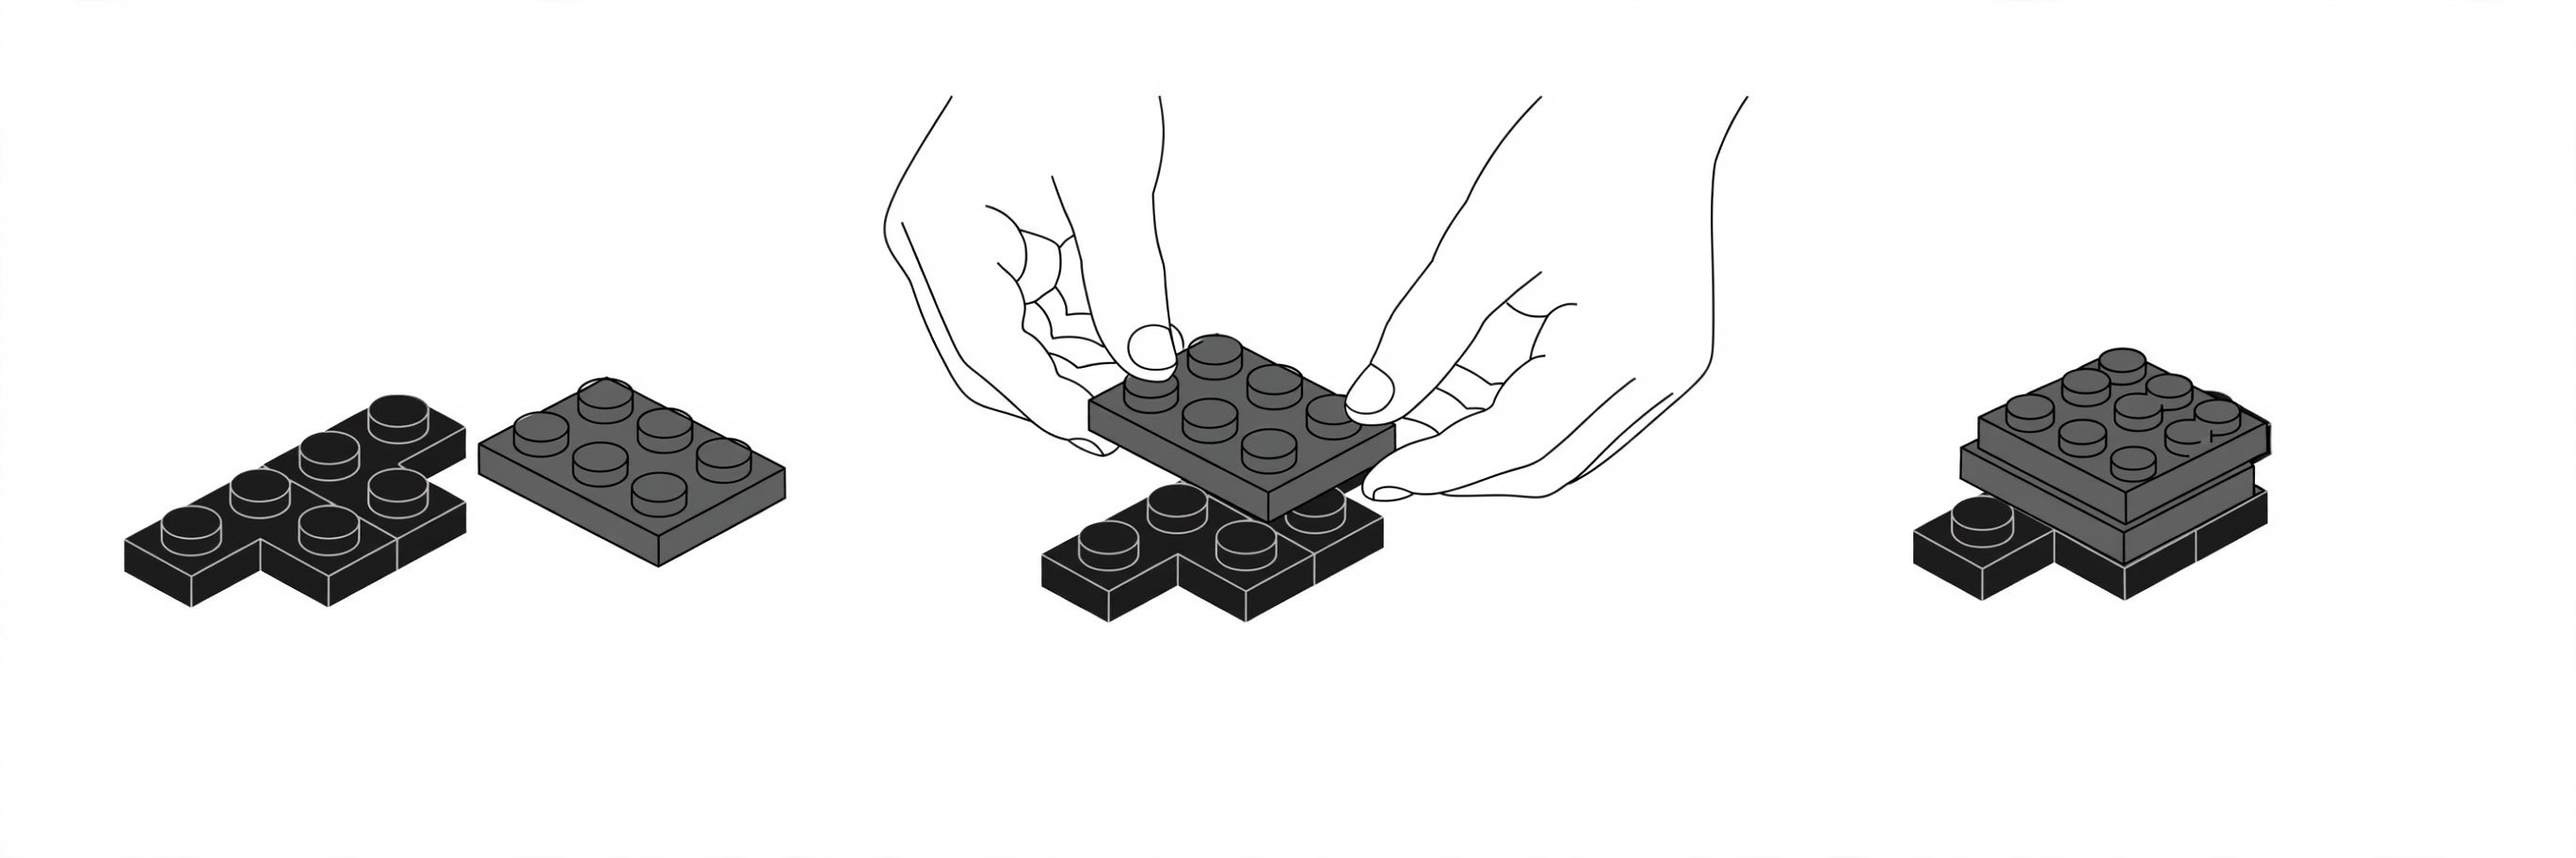
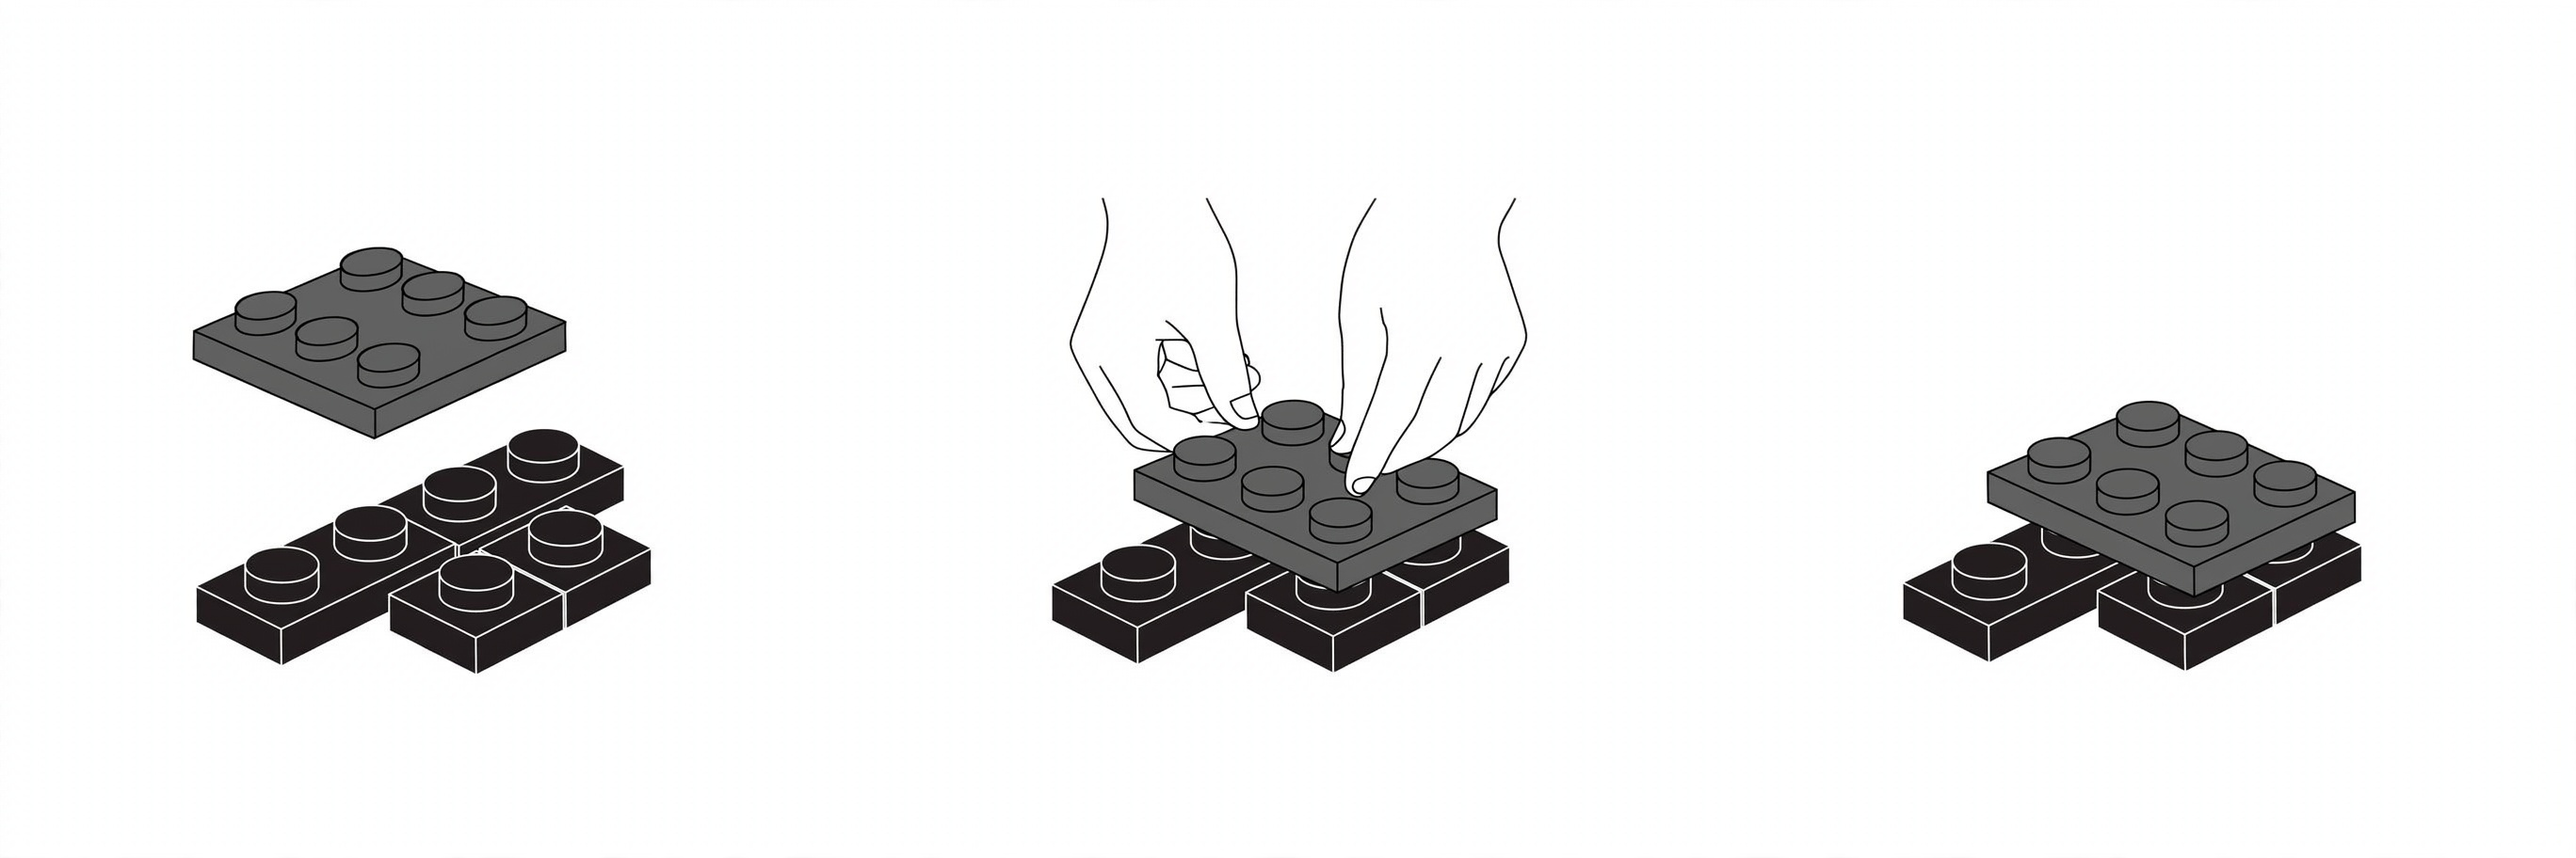
Show permission error code and improve mic
Expose browser permission error names to the permission help UI and display them to users. permissionHelp/onPermissionHelp now include an optional reason; callers in CameraStage and useDictation pass error.name so the sheet can show a small diagnostic. Add .c-perm-code CSS and translations for the new strings. Improve dictation startup: request getUserMedia early (iPhone tap requirement), add AudioContext creation fallback, and fall back to plain audio if advanced options fail. Minor wording tweak to a known build step and update binary manual image.

diff --git a/components/useDictation.ts b/components/useDictation.ts
@@ -44,17 +44,29 @@ export function useDictation(onText: (text: string) => void | Promise<void>, onE
   async function toggle() {
     if (stopRef.current) return stopRef.current();
     const url = relayUrl();
+    // Ask for the mic first, still inside the tap: on iPhone a request made after other audio setup can fail without asking.
+    const asked = navigator.mediaDevices?.getUserMedia
+      ? navigator.mediaDevices.getUserMedia({ audio: { echoCancellation: true, noiseSuppression: true } })
+      : Promise.reject(new Error("no media devices"));
     // iPhone Safari only lets audio run if it starts in the tap itself, before any await; later it stays muted.
-    const context = url ? new AudioContext({ sampleRate: RATE }) : null;
-    context?.resume();
+    let context: AudioContext | null = null;
+    try {
+      context = url ? new AudioContext({ sampleRate: RATE }) : null;
+      context?.resume();
+    } catch {
+      context = null; // no 16 kHz context here: record the clip instead of streaming
+    }
     let stream: MediaStream;
     try {
-      if (!navigator.mediaDevices?.getUserMedia) throw new Error("no media devices");
-      stream = await navigator.mediaDevices.getUserMedia({ audio: { echoCancellation: true, noiseSuppression: true } });
+      // Some iPhone browsers refuse the extra audio options; plain audio still works.
+      stream = await asked.catch((error) => {
+        if (error instanceof DOMException && (error.name === "NotAllowedError" || error.name === "NotFoundError")) throw error;
+        return navigator.mediaDevices.getUserMedia({ audio: true });
+      });
     } catch (error) {
       context?.close();
       // Once denied, browsers don't ask again, and iPhone Chrome doesn't always say "denied": show where the switch is unless there's no mic at all.
-      if (!(error instanceof DOMException && error.name === "NotFoundError")) permissionHelp("microphone");
+      if (!(error instanceof DOMException && error.name === "NotFoundError")) permissionHelp("microphone", error instanceof Error ? error.name : String(error));
       return onError(tr("Allow the microphone to talk to Timber"));
     }
     if (url && context) {

diff --git a/components/PermissionHelp.tsx b/components/PermissionHelp.tsx
@@ -16,10 +16,10 @@ function browserOf(): Browser {
 // Web pages can't open the phone's settings, so the sheet spells out where the switch is for this browser.
 const STEPS: Record<Browser, string[]> = {
   "ios-chrome": [
-    "Open the Settings app on your iPhone.",
-    "Scroll down and tap Chrome.",
-    "Turn on {device}.",
-    "Come back here and tap Try again.",
+    "Tap the icon on the left of the address bar (a camera, a lock or two sliders).",
+    "Set {device} to Allow for this site.",
+    "If it isn't there: open the iPhone Settings app, tap Chrome and turn on {device}.",
+    "Reload this page and tap the mic again.",
   ],
   "ios-safari": [
     "Tap aA on the left of the address bar.",
@@ -45,12 +45,14 @@ export default function PermissionHelp() {
   const [device, setDevice] = useState<Device | null>(null);
   const [browser, setBrowser] = useState<Browser>("desktop");
   const [note, setNote] = useState("");
+  const [code, setCode] = useState("");
 
   useEffect(
     () =>
-      onPermissionHelp((d) => {
+      onPermissionHelp((d, reason) => {
         setBrowser(browserOf());
         setNote("");
+        setCode(reason ?? "");
         setDevice(d);
       }),
     [],
@@ -73,7 +75,8 @@ export default function PermissionHelp() {
       setDevice(null);
       // The camera only starts on load, so reload once it's allowed.
       if (device === "camera") location.reload();
-    } catch {
+    } catch (error) {
+      setCode(error instanceof Error ? error.name : "");
       setNote(t("Still blocked. Check the steps above, then try again or reload."));
     }
   }
@@ -103,6 +106,7 @@ export default function PermissionHelp() {
         <button type="button" className="c-btn" onClick={retry}>
           {t("Try again")}
         </button>
+        {code && <p className="c-perm-code">{t("Browser says: {code}", { code })}</p>}
         <div className="c-perm-links">
           <button type="button" className="c-link" onClick={() => location.reload()}>
             {t("Reload the page")}

diff --git a/lib/permission.ts b/lib/permission.ts
@@ -3,12 +3,16 @@ export type Device = "microphone" | "camera";
 const EVENT = "stepsight:blocked";
 
 // Opens the "turn it on" sheet (components/PermissionHelp.tsx) from anywhere: a blocked request or a help button.
-export function permissionHelp(device: Device) {
-  window.dispatchEvent(new CustomEvent<Device>(EVENT, { detail: device }));
+// reason: the browser's error name (NotAllowedError…), shown small so a stuck user can tell us what happened.
+export function permissionHelp(device: Device, reason?: string) {
+  window.dispatchEvent(new CustomEvent(EVENT, { detail: { device, reason } }));
 }
 
-export function onPermissionHelp(fn: (device: Device) => void) {
-  const listener = (e: Event) => fn((e as CustomEvent<Device>).detail);
+export function onPermissionHelp(fn: (device: Device, reason?: string) => void) {
+  const listener = (e: Event) => {
+    const { device, reason } = (e as CustomEvent<{ device: Device; reason?: string }>).detail;
+    fn(device, reason);
+  };
   window.addEventListener(EVENT, listener);
   return () => window.removeEventListener(EVENT, listener);
 }

diff --git a/lib/known.ts b/lib/known.ts
@@ -42,7 +42,7 @@ type Mini = { page: number; panel: number; target: string; to: string; parts: Pa
 const ROLLER: Mini[] = [
   {
     page: 1, panel: 1, target: "dark gray plate", to: "black corner plate", parts: [p(1, "dark gray", "2x3 plate"), p(2, "black", "corner plate")],
-    draw: "press the dark gray 2x3 plate onto two black L-shaped corner plates lying side by side",
+    draw: "press exactly ONE flat dark gray plate with 6 studs onto two black L-shaped plates lying side by side, so the single gray plate bridges both L plates; there is only one gray piece in all three panels, never two",
     en: { instruction: "Put the two black L plates side by side and press the gray plate on top to join them.", check: "The two black L plates are joined by a dark gray plate on top." },
     es: { instruction: "Pon las dos placas negras en L una junto a la otra y presiona encima la placa gris para unirlas.", check: "Las dos placas negras en L están unidas por una placa gris oscuro encima." },
   },

diff --git a/lib/es.ts b/lib/es.ts
@@ -428,4 +428,9 @@ export const ES: Record<string, string> = {
   "Not now": "Ahora no",
   "Microphone or camera not working?": "¿No funciona el micrófono o la cámara?",
   "How to turn them on in this browser.": "Cómo activarlos en este navegador.",
+  "Tap the icon on the left of the address bar (a camera, a lock or two sliders).": "Toca el ícono a la izquierda de la dirección (una cámara, un candado o dos barritas).",
+  "Set {device} to Allow for this site.": "Pon {device} en Permitir para este sitio.",
+  "If it isn't there: open the iPhone Settings app, tap Chrome and turn on {device}.": "Si no aparece: abre Ajustes del iPhone, toca Chrome y activa {device}.",
+  "Reload this page and tap the mic again.": "Recarga esta página y vuelve a tocar el micrófono.",
+  "Browser says: {code}": "El navegador dice: {code}",
 };

diff --git a/components/CameraStage.tsx b/components/CameraStage.tsx
@@ -166,7 +166,7 @@ export default function CameraStage({
       })
       .catch((error) => {
         setCameraError(true);
-        if (isBlocked(error)) permissionHelp("camera");
+        if (isBlocked(error)) permissionHelp("camera", error.name);
       });
     return () => stream?.getTracks().forEach((t) => t.stop());
   }, []);

diff --git a/app/c.css b/app/c.css
@@ -2084,3 +2084,9 @@ a.c-card {
   display: flex;
   justify-content: space-between;
 }
+
+.c-perm-code {
+  margin: 0;
+  font-size: 12px;
+  color: var(--pencil);
+}
